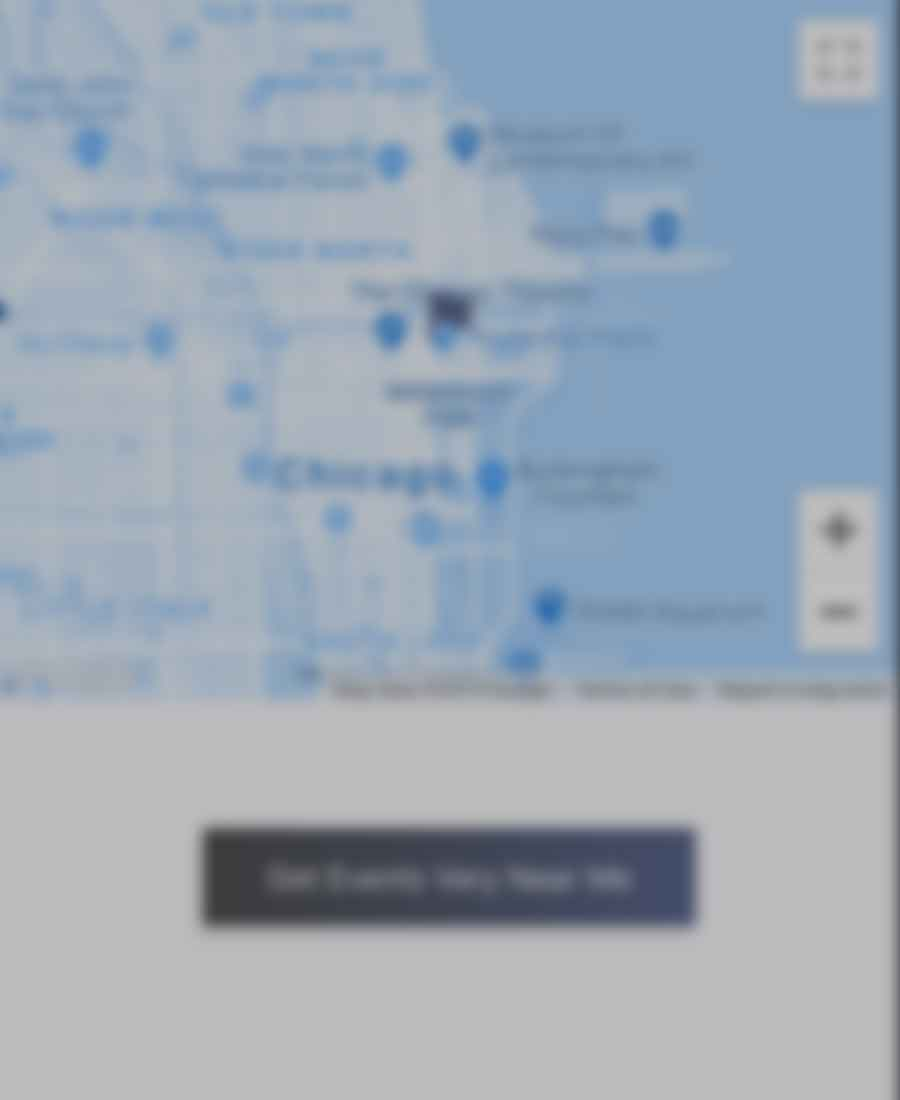
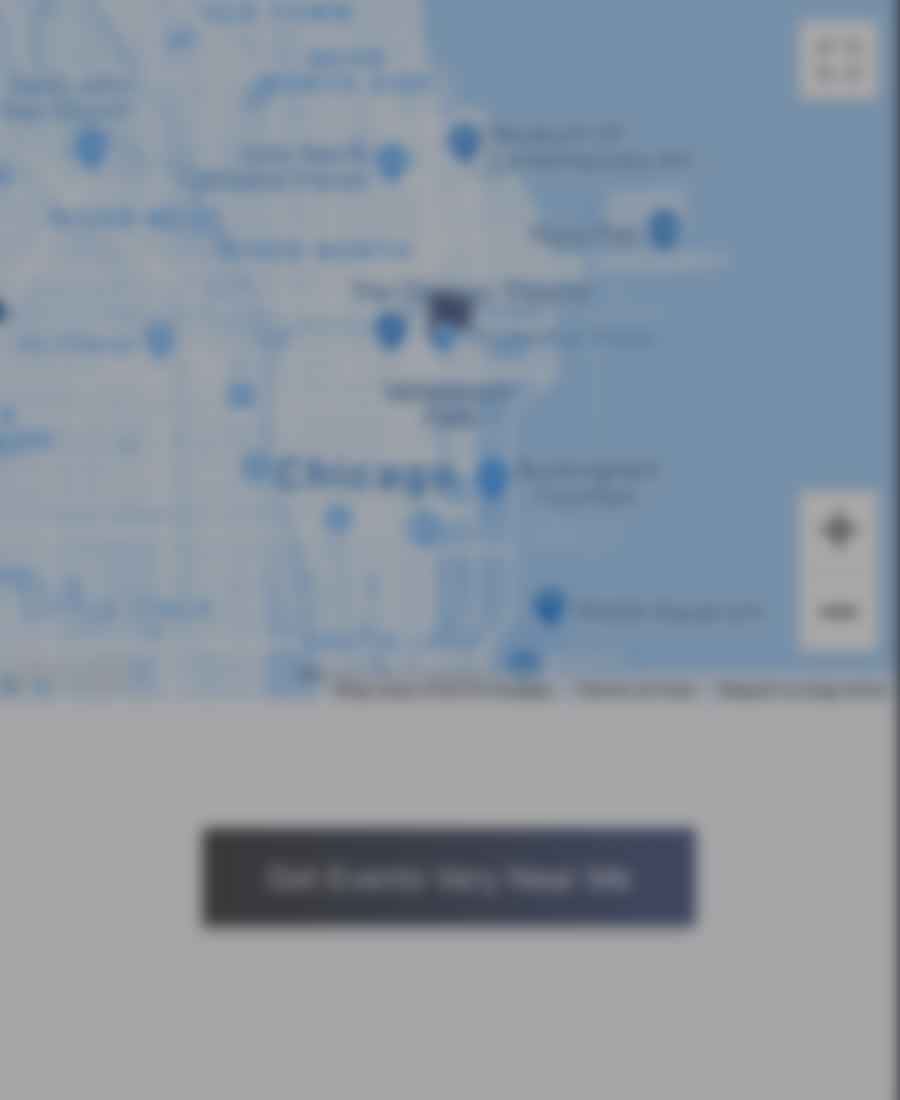
style update

diff --git a/src/CustomAddress.js b/src/CustomAddress.js
@@ -31,7 +31,7 @@ class CustomAddress extends React.Component {
       <div className="app geo-custom" style={{backgroundImage: 'url("bg-blur.jpg")'}}>
         <div className="geo-custom__error-text">
         
-          <p>No biggie. You don't want to give out your current location willy nilly. But we need to start somewhere <span role="img" aria-label="shrug">🤷</span></p>
+          <p>You don't want to give out your geolocation willy nilly. No biggie. <span style={{fontSize: '140%'}} role="img" aria-label="shrug">🤷</span>But we need to start somewhere:</p>
           
           <PlacesAutocomplete
             value={this.state.address}
@@ -54,8 +54,8 @@ class CustomAddress extends React.Component {
                       : 'suggestion-item';
                     // inline style for demonstration purpose
                     const style = suggestion.active
-                      ? { backgroundColor: '#fafafa', cursor: 'pointer' }
-                      : { backgroundColor: '#ffffff', cursor: 'pointer' };
+                      ? { backgroundColor: 'rgba(0, 0, 0, 0.9)', cursor: 'pointer' }
+                      : { backgroundColor: 'rgba(0, 0, 0, 0.5)', cursor: 'pointer' };
                     return (
                       <div
                         {...getSuggestionItemProps(suggestion, {

diff --git a/src/App.scss b/src/App.scss
@@ -1,10 +1,10 @@
 @import './mixins';
 
 .app {
-  width: 360px;
+  width: 99vw;
   min-height: 550px;
   box-shadow: rgba(0, 0, 0, 0.1) -2px 7px 7px;
-  margin: 5px auto auto;
+  margin: 2px auto auto;
   background: #FBFBFD;
   @include for-desktop-up {
     width: 450px;

diff --git a/src/CustomAddress.scss b/src/CustomAddress.scss
@@ -1,6 +1,9 @@
 .geo-custom {
   background-size: contain;
+  background-repeat: no-repeat;
+  background-color: #A6A6A6;
   &__error-text {
+    color: white;
     text-align: center;
     display: flex;
     flex-direction: column;
